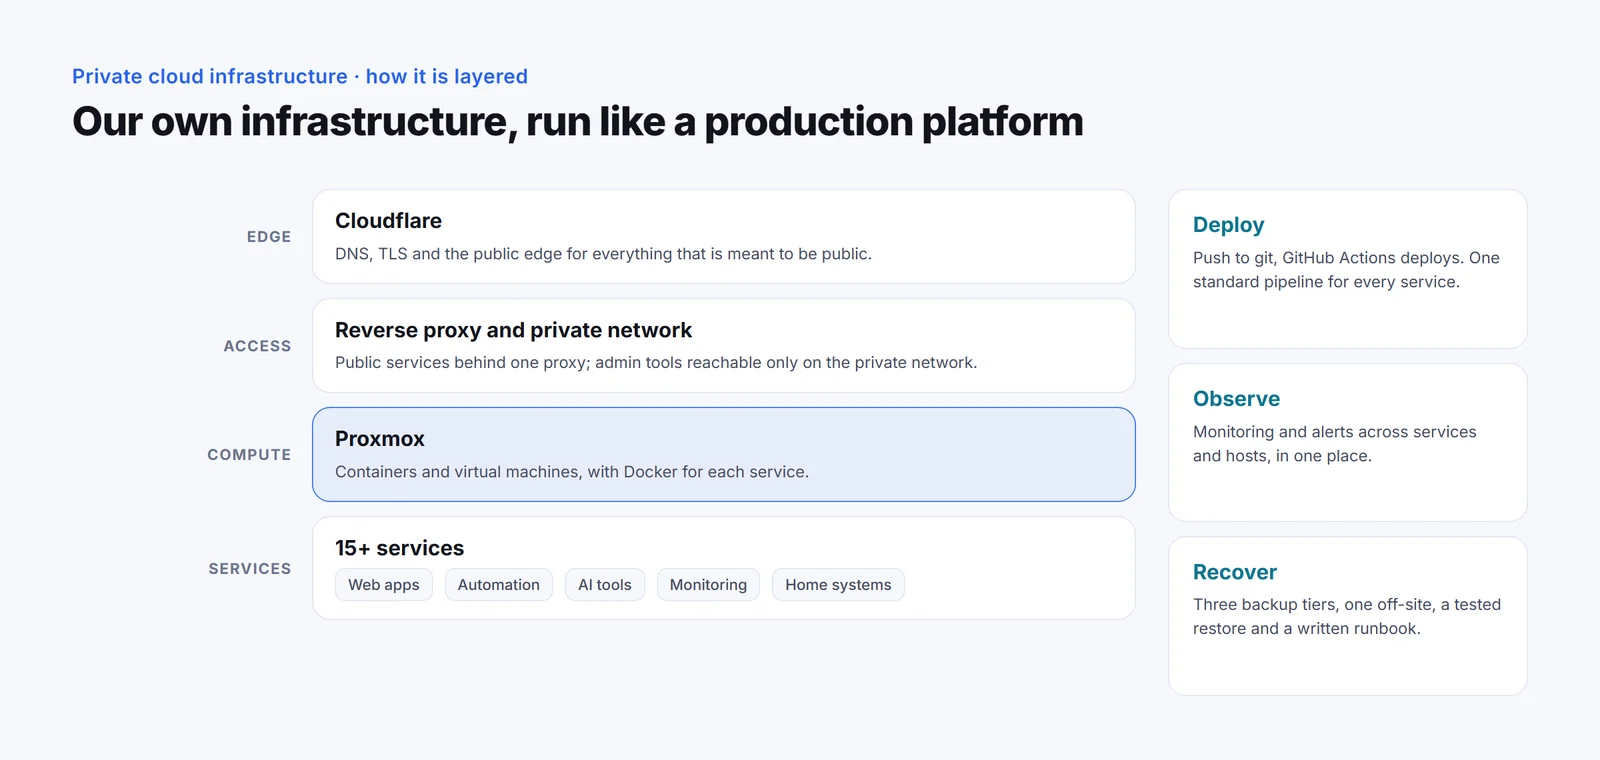
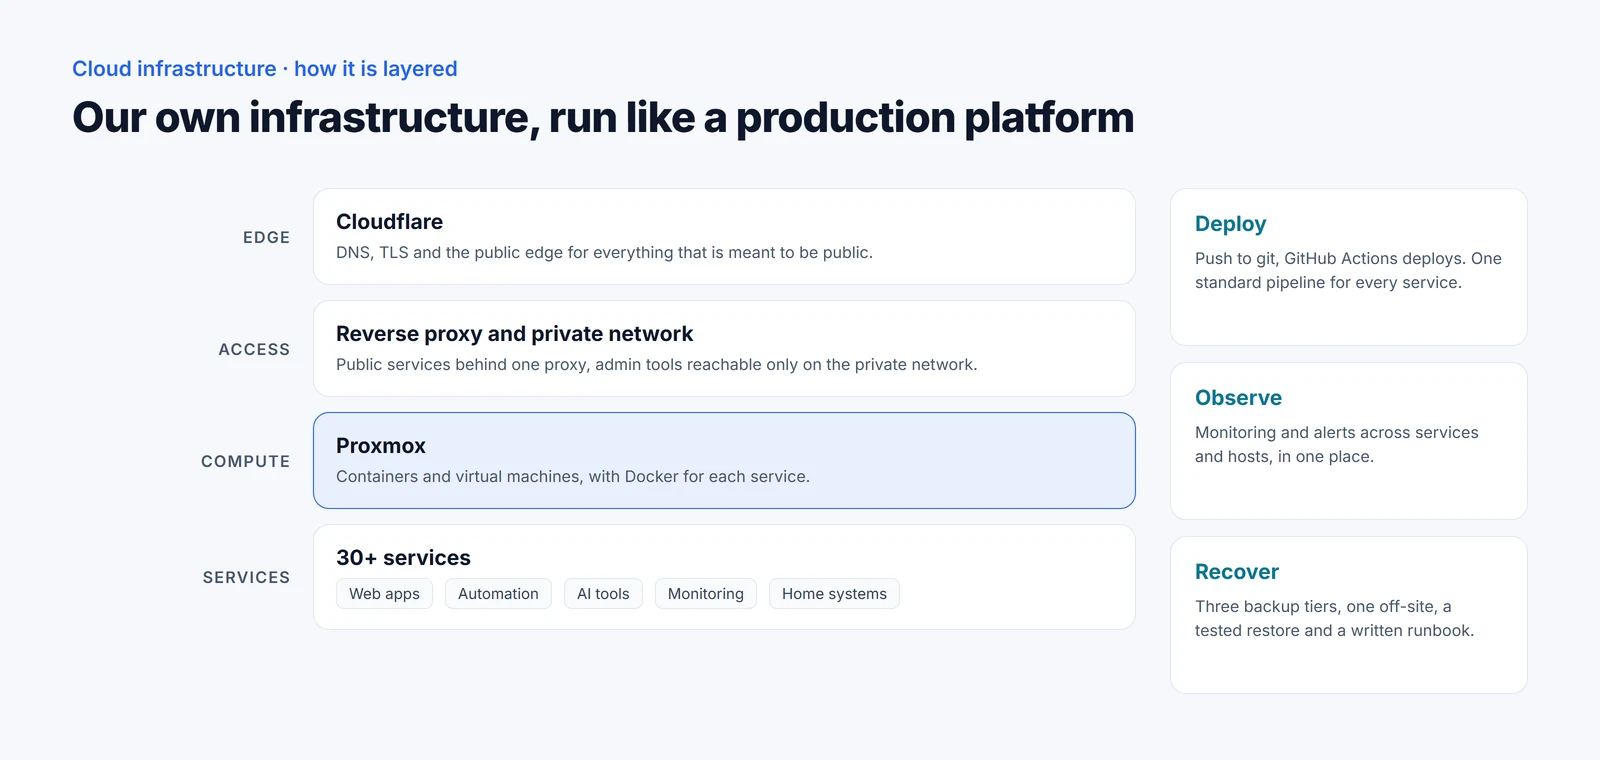
Cloud Infrastructure card: 30+ services, new diagram
The infrastructure card drops "private" and counts 30+ services, and
its picture is the redrawn diagram from agentas.net.

diff --git a/index.html b/index.html
@@ -443,14 +443,14 @@
                         <div class="ai-section-inner">
                             <div class="ai-grid">
                 <div class="ai-card ai-card--modal" role="button" tabindex="0"
-                     data-shot="images/private-cloud.webp?v=1" data-private="1"
+                     data-shot="images/private-cloud.webp?v=2" data-private="1"
                      data-link="https://agentas.net/projects/private-cloud/" data-link-label="agentas.net/projects/private-cloud">
                     <span class="ai-badge" data-en="Private" data-no="Privat">Private</span>
                     <div class="ai-card-icon">
                         <svg aria-hidden="true" viewBox="0 0 24 24" fill="none" stroke="currentColor" stroke-width="2"><rect x="3" y="4" width="18" height="6" rx="1"/><rect x="3" y="14" width="18" height="6" rx="1"/><circle cx="7" cy="7" r="0.5" fill="currentColor"/><circle cx="7" cy="17" r="0.5" fill="currentColor"/></svg>
                     </div>
-                    <h3 data-en="Private Cloud Infrastructure" data-no="Privat skyinfrastruktur">Private Cloud Infrastructure</h3>
-                    <p data-en="A multi-server environment grown over two years into a small private cloud — 15+ services across web apps, automation, monitoring, and home systems. Standardised deployment pipeline, layered defence-in-depth security, three-tier backups with rehearsed recovery, and a living architecture reference kept like a runbook." data-no="Et multi-server-miljø utviklet over to år til en liten privat sky — 15+ tjenester på tvers av webapper, automatisering, overvåking og hjemmesystemer. Standardisert utrullingspipeline, lagdelt defence-in-depth-sikkerhet, tre-lags backup med øvd gjenoppretting, og en levende arkitekturreferanse holdt som en runbook.">A multi-server environment grown over two years into a small private cloud — 15+ services across web apps, automation, monitoring, and home systems. Standardised deployment pipeline, layered defence-in-depth security, three-tier backups with rehearsed recovery, and a living architecture reference kept like a runbook.</p>
+                    <h3 data-en="Cloud Infrastructure" data-no="Sky-infrastruktur">Cloud Infrastructure</h3>
+                    <p data-en="A multi-server environment grown over two years into my own small cloud infrastructure, with 30+ services across web apps, automation, monitoring, and home systems. Standardised deployment pipeline, layered defence-in-depth security, three-tier backups with rehearsed recovery, and a living architecture reference kept like a runbook." data-no="Et multi-server-miljø utviklet over to år til min egen lille sky-infrastruktur med 30+ tjenester på tvers av webapper, automatisering, overvåking og hjemmesystemer. Standardisert utrullingspipeline, lagdelt defence-in-depth-sikkerhet, tre-lags backup med øvd gjenoppretting, og en levende arkitekturreferanse holdt som en runbook.">A multi-server environment grown over two years into my own small cloud infrastructure, with 30+ services across web apps, automation, monitoring, and home systems. Standardised deployment pipeline, layered defence-in-depth security, three-tier backups with rehearsed recovery, and a living architecture reference kept like a runbook.</p>
                     <div class="service-tags">
                         <span>Proxmox</span><span>Docker</span><span>CI/CD</span><span>Restic</span>
                     </div>
@@ -782,7 +782,7 @@
                         <svg aria-hidden="true" viewBox="0 0 24 24" fill="none" stroke="currentColor" stroke-width="2"><rect x="3" y="4" width="18" height="6" rx="1"/><rect x="3" y="14" width="18" height="6" rx="1"/><circle cx="7" cy="7" r="0.5" fill="currentColor"/><circle cx="7" cy="17" r="0.5" fill="currentColor"/></svg>
                     </div>
                     <h3 data-en="Running my own cloud" data-no="Drifter min egen sky">Running my own cloud</h3>
-                    <p data-en="My homelab is a small private cloud — servers, containers, monitoring, and rehearsed backups running the same way real production does. If I want to learn something, I stand it up and run it for real." data-no="Hjemmelabben min er en liten privat sky — servere, containere, overvåking og øvde backuper som kjører på samme måte som ekte produksjon. Vil jeg lære noe nytt, setter jeg det opp og drifter det på ordentlig.">My homelab is a small private cloud — servers, containers, monitoring, and rehearsed backups running the same way real production does. If I want to learn something, I stand it up and run it for real.</p>
+                    <p data-en="My homelab is my own small cloud: servers, containers, monitoring, and rehearsed backups running the same way real production does. If I want to learn something, I stand it up and run it for real." data-no="Hjemmelabben min er min egen lille sky: servere, containere, overvåking og øvde backuper som kjører på samme måte som ekte produksjon. Vil jeg lære noe nytt, setter jeg det opp og drifter det på ordentlig.">My homelab is my own small cloud: servers, containers, monitoring, and rehearsed backups running the same way real production does. If I want to learn something, I stand it up and run it for real.</p>
                 </div>
                 <div class="beyond-card">
                     <div class="beyond-icon">
